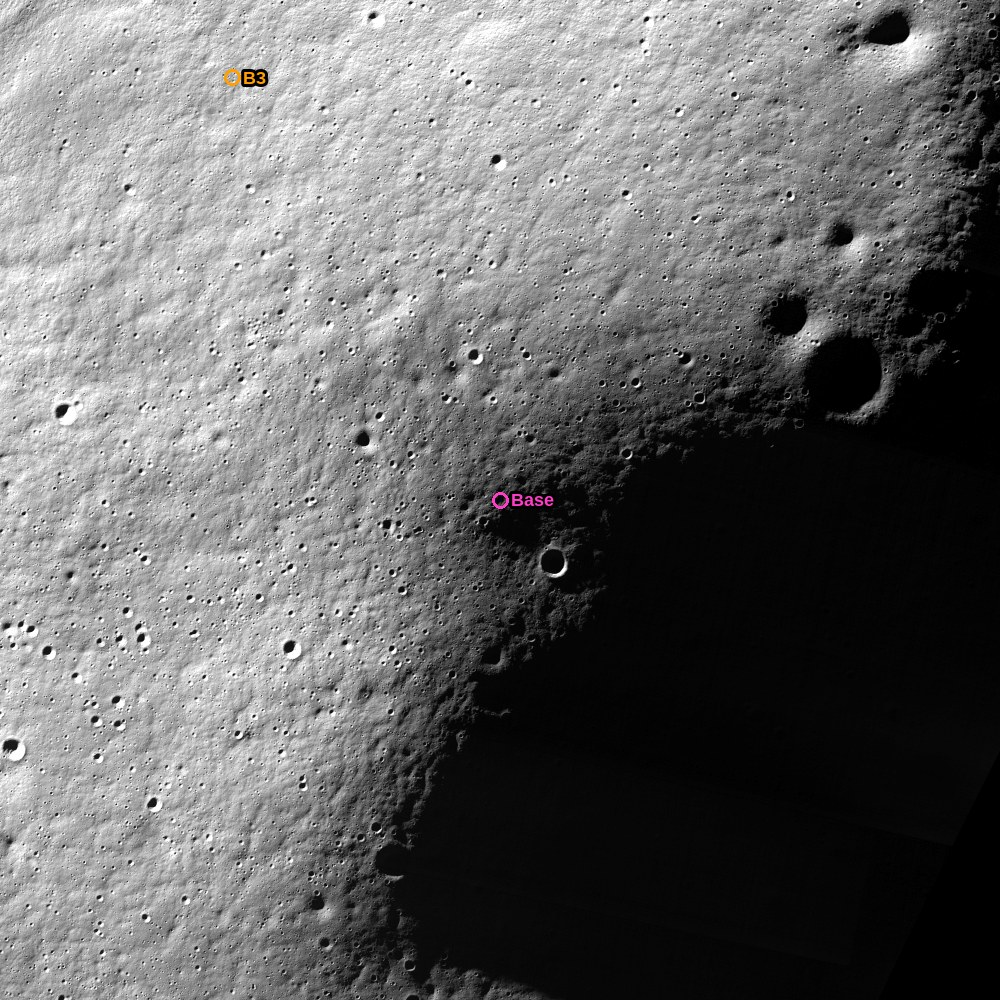
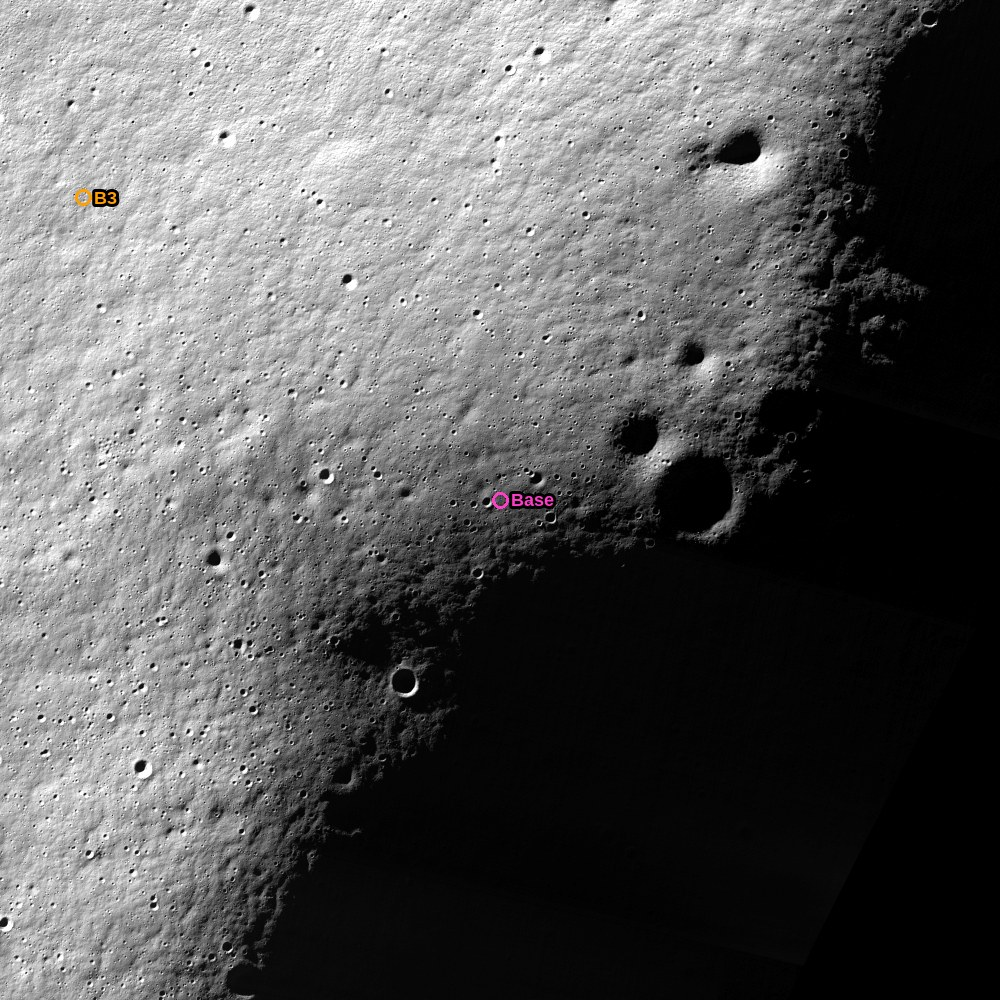
Primary base moved to the sunlit side of the flat patch, 88.4365°S 62.46°W (DD-023); maps and figures recomputed
Claude-Session: https://claude.ai/code/session_01EMgvSv8Ki6A9jj7v8eiV3S

diff --git a/analysis/blender/make_heightmap.py b/analysis/blender/make_heightmap.py
@@ -12,7 +12,7 @@ from scipy import ndimage
 from PIL import Image
 OUT = sys.argv[1]; os.makedirs(OUT, exist_ok=True)
 os.environ['CURL_CA_BUNDLE'] = os.environ.get('CURL_CA_BUNDLE', '/root/.ccr/ca-bundle.crt')
-R = 1737400.; C = lonlat2m(-88.4262, -63.30); HALF = 10000.; RES = 5.
+R = 1737400.; C = lonlat2m(-88.4365, -62.46); HALF = 10000.; RES = 5.
 B = (C[0] - HALF, C[1] - HALF, C[0] + HALF, C[1] + HALF); N = int(2 * HALF / RES)
 d10 = np.nan_to_num(read('LDEM_83S_10MPP_ADJ', B, 10)).astype('float64')
 h = np.array(Image.fromarray(d10.astype('float32'), mode='F').resize((N, N), Image.BICUBIC)).astype('float64')
@@ -56,7 +56,7 @@ with open(os.path.join(OUT, 'mesh_20m.ply'), 'wb') as f:
     f.write(('ply\nformat binary_little_endian 1.0\ncomment Open Moon primary base terrain, NASA LOLA, metres\nelement vertex %d\nproperty float x\nproperty float y\nproperty float z\nproperty float s\nproperty float t\nelement face %d\nproperty list uchar int vertex_indices\nend_header\n' % (n * n, len(faces))).encode())
     f.write(verts.tobytes()); f.write(faces.tobytes())
 bz = float(hm[N // 2, N // 2])
-info = {'centre_lat_lon': [-88.4262, -63.30], 'size_m': 2 * HALF, 'pixel_m': RES, 'pixels': N, 'bounds_polar_stereographic_m': [float(v) for v in B],
+info = {'centre_lat_lon': [-88.4365, -62.46], 'size_m': 2 * HALF, 'pixel_m': RES, 'pixels': N, 'bounds_polar_stereographic_m': [float(v) for v in B],
         'height_min_m': round(lo, 2), 'height_max_m': round(hi, 2), 'height_range_m': round(hi - lo, 2), 'base_height_m': round(bz, 2),
         'base_height_above_min_m': round(bz - lo, 2), 'share_from_5m_dem_pct': round(float(has.mean()) * 100, 1), 'site11_offset_vs_10m_m': round(off, 2),
         'curvature_drop_at_edge_mid_m': round(HALF ** 2 / (2 * R), 1), 'curvature_drop_at_corner_m': round(2 * HALF ** 2 / (2 * R), 1),

diff --git a/analysis/hydrogen/mk_primary.py b/analysis/hydrogen/mk_primary.py
@@ -9,7 +9,7 @@ from PIL import Image, ImageDraw, ImageFont
 PSR, OUT = sys.argv[1], sys.argv[2]
 font = lambda sz: ImageFont.truetype(FB, int(sz))
 frame_base = lonlat2m(-88.4453, -63.44)   # map frame stays as first drawn
-base = lonlat2m(-88.4262, -63.30); mine = lonlat2m(-88.3664, -78.31)   # primary base moved to the flat-patch centre (DD-020)
+base = lonlat2m(-88.4365, -62.46); mine = lonlat2m(-88.3664, -78.31)   # primary base on the sunlit side of the flat patch (DD-023)
 cx, cy = (frame_base[0] * 0.45 + mine[0] * 0.55), (frame_base[1] * 0.45 + mine[1] * 0.55)
 HW, HH = 17500, 13500; RES = 20
 B = (cx - HW, cy - HH, cx + HW, cy + HH)
@@ -114,7 +114,7 @@ pts = []
 for i in range(10):
     ang = math.pi / 2 + i * math.pi / 5; R_ = 22 * k if i % 2 == 0 else 10 * k; pts.append((bx + R_ * math.cos(ang), by - R_ * math.sin(ang)))
 dr.polygon(pts, fill=(255, 60, 200), outline='black')
-dr.text((bx + 26 * k, by), 'PRIMARY BASE  88.426°S, 63.30°W', font=F, fill=(255, 120, 220), anchor='lm', stroke_width=4, stroke_fill=(0, 0, 0))
+dr.text((bx + 26 * k, by), 'PRIMARY BASE  88.4365°S, 62.46°W', font=F, fill=(255, 120, 220), anchor='lm', stroke_width=4, stroke_fill=(0, 0, 0))
 # legend
 rows = [((0, 170, 0), 'Slope ≤8° (landable)'), ((255, 220, 0), 'Slope 8–15°'), ((255, 140, 0), 'Slope 15–20°'), ((220, 0, 0), 'Slope ≥20°'),
         ((40, 130, 255), 'Ice candidate: de Gerlache shadowed floor'), ((120, 200, 255), 'Outline: other shadowed areas (no ice data)'),

diff --git a/analysis/hydrogen/mk_overview.py b/analysis/hydrogen/mk_overview.py
@@ -10,7 +10,7 @@ from PIL import Image, ImageDraw, ImageFont
 PSR, OUT = sys.argv[1], sys.argv[2]
 font = lambda sz: ImageFont.truetype(FB, int(sz))
 frame_base = lonlat2m(-88.4453, -63.44)   # map frame stays as first drawn
-base = lonlat2m(-88.4262, -63.30); mine = lonlat2m(-88.3664, -78.31)   # primary base moved to the flat-patch centre (DD-020)
+base = lonlat2m(-88.4365, -62.46); mine = lonlat2m(-88.3664, -78.31)   # primary base on the sunlit side of the flat patch (DD-023)
 backup = lonlat2m(-89.559, -163.66); shack = lonlat2m(-89.67, 129.78)
 KEY = [frame_base, mine, backup, shack, lonlat2m(-88.7108, -68.28), lonlat2m(-88.5, -87.1)]
 xs_k = [p[0] for p in KEY]; ys_k = [p[1] for p in KEY]; M = 9000; RES = 40
@@ -102,7 +102,7 @@ r = 11 * k; dr.rectangle((mx - r, my - r, mx + r, my + r), fill=(40, 130, 255), 
 txt(mx, my + 18 * k, 'Ice mine', 'white', 'mt')
 star(bx, by, (255, 60, 200), 26)
 txt(bx + 28 * k, by - 6 * k, 'PRIMARY BASE', (255, 120, 220), 'lb', F)
-txt(bx + 28 * k, by + 2 * k, '88.426°S, 63.30°W', (255, 160, 230), 'lt')
+txt(bx + 28 * k, by + 2 * k, '88.4365°S, 62.46°W', (255, 160, 230), 'lt')
 # ---- backup: Connecting ridge trio on 3 km runs to a ridge PMC, extended run to the base
 AV = [('A1', -89.4745, -137.53, 81.9), ('A2', -89.3807, -140.91, 59.6), ('A3', -89.4176, -134.94, 48.3)]
 rp = P2(-89.438, -137.65); kx, ky = m2p(*backup)

diff --git a/analysis/blender/make_texture.py b/analysis/blender/make_texture.py
@@ -16,7 +16,7 @@ g = (np.clip((a - lo) / (hi - lo), 0, 1) ** 0.85 * 255).astype('uint8')
 im = Image.fromarray(g)
 if not os.environ.get('SITE_ONLY'):
     im.save(os.path.join(BO, 'texture_2m.jpg'), quality=90); im.resize((4096, 4096), Image.LANCZOS).save(os.path.join(BO, 'texture_4k.jpg'), quality=92)
-C = lonlat2m(-88.4262, -63.30); HALF = (B[2] - B[0]) / 2; F = lambda z: ImageFont.truetype(FB, int(z))
+C = lonlat2m(-88.4365, -62.46); HALF = (B[2] - B[0]) / 2; F = lambda z: ImageFont.truetype(FB, int(z))
 def markers(img, px_per_m, x0, y1, star=True):
     dr = ImageDraw.Draw(img); k = img.width / 1600
     P = [('B1', (-88.6652, -68.42), (255, 140, 0)), ('B2', (-88.7108, -68.28), (255, 140, 0)), ('B3', (-88.3693, -62.11), (255, 140, 0)),

diff --git a/analysis/hydrogen/mk_lhi.py b/analysis/hydrogen/mk_lhi.py
@@ -103,7 +103,7 @@ for la, lo in ((-88.4657, -67.87), (-88.3937, -68.69)):
     r = 9 * k; dr.ellipse((x - r, y - r, x + r, y + r), fill=ICE, outline='black', width=2)
 r = 10 * k; dr.rectangle((mine[0] - r, mine[1] - r, mine[0] + r, mine[1] + r), fill=(40, 130, 255), outline='white', width=2)
 dr.text((mine[0], mine[1] + 16 * k), 'Ice mine (floor edge)', font=Fs, fill='white', anchor='mt', stroke_width=3, stroke_fill=(0, 0, 0))
-_star(-88.4262, -63.30, (255, 60, 200), 'PRIMARY base', 'r')
+_star(-88.4365, -62.46, (255, 60, 200), 'PRIMARY base', 'r')
 _star(-89.5587, -163.66, (200, 120, 255), 'Backup base', 'r')
 # group labels for spots within ~1.5 km (37 px at 40 m/px)
 groups = []

diff --git a/analysis/blender/fetch_nac.py b/analysis/blender/fetch_nac.py
@@ -9,7 +9,7 @@ PROD, OUT = sys.argv[1], sys.argv[2]; RES = float(sys.argv[3]) if len(sys.argv) 
 U = ('/vsicurl/https://pds.mcp.nasa.gov/data/store/img/lunar_reconnaissance_orbiter/pds4/lroc/lro-l-lroc-5-rdr/'
      'LROLRC_2001/EXTRAS/BROWSE/NAC_POLE/NAC_POLE_SOUTH_{p}/NAC_POLE_SOUTH_{p}_{t}.PYR.TIF')
 TILES = ['P878S2925', 'P892S3150']
-R = 1737400.; la, lo = -88.4262, -63.30
+R = 1737400.; la, lo = -88.4365, -62.46
 rho = 2 * R * math.tan(math.radians(90 + la) / 2); CX, CY = rho * math.sin(math.radians(lo)), rho * math.cos(math.radians(lo))
 HALF = 10000.; B = (CX - HALF, CY - HALF, CX + HALF, CY + HALF)
 N = int(2 * HALF / RES); STRIP = 1000.   # metres per strip

diff --git a/analysis/sitesearch/mk_expansion.py b/analysis/sitesearch/mk_expansion.py
@@ -5,7 +5,7 @@ sys.path.insert(0, os.path.join(os.path.dirname(os.path.abspath(__file__)), '../
 from render import read, lonlat2m, FB
 from scipy import ndimage
 from PIL import Image, ImageDraw, ImageFont
-N = lonlat2m(-88.4262, -63.30); B3 = lonlat2m(-88.3693, -62.11); W = 6000; RES = 10
+N = lonlat2m(-88.4365, -62.46); B3 = lonlat2m(-88.3693, -62.11); W = 6000; RES = 10
 bb = (N[0] - W, N[1] - W, N[0] + W, N[1] + W)
 s = read('LDSM_83S_10MPP_ADJ', bb, RES); h = np.nan_to_num(read('LDEM_83S_10MPP_ADJ_HILL', bb, RES)); H, Wd = s.shape
 c = (H // 2, Wd // 2); yy, xx = np.mgrid[0:H, 0:Wd]; d = np.hypot(yy - c[0], xx - c[1]) * RES

diff --git a/analysis/imagery/render_bins.py b/analysis/imagery/render_bins.py
@@ -7,7 +7,7 @@ U = ('/vsicurl/https://pds.mcp.nasa.gov/data/store/img/lunar_reconnaissance_orbi
      'LROLRC_2001/EXTRAS/BROWSE/NAC_POLE/NAC_POLE_SOUTH_{p}/NAC_POLE_SOUTH_{p}_P878S2925.{e}')
 R = 1737400.; FB = '/usr/share/fonts/truetype/liberation/LiberationSans-Bold.ttf'
 xy = lambda la, lo: (2 * R * math.tan(math.radians(90 + la) / 2) * math.sin(math.radians(lo)), 2 * R * math.tan(math.radians(90 + la) / 2) * math.cos(math.radians(lo)))
-BASE = xy(-88.4262, -63.30); B3 = xy(-88.3693, -62.11)
+BASE = xy(-88.4365, -62.46); B3 = xy(-88.3693, -62.11)
 def rd(p, half, px):
     cx, cy = BASE
     for e in ('PYR.TIF', 'TIF'):

diff --git a/analysis/blender/base_anim.py b/analysis/blender/base_anim.py
@@ -9,7 +9,7 @@ from scipy import ndimage
 from PIL import Image, ImageDraw, ImageFont
 SEASON, OUT = sys.argv[1], sys.argv[2]
 R = 1737400.
-C = np.array(lonlat2m(-88.4262, -63.30)); HALF = 10000.; G = 40.
+C = np.array(lonlat2m(-88.4365, -62.46)); HALF = 10000.; G = 40.
 d80 = np.load('dem80.npy'); B80 = (-216400., -216400., 216400., 216400.)
 d20 = np.load('dem20.npy'); B20 = tuple(np.load('dem20_bounds.npy'))
 NB = (C[0] - 15000, C[1] - 15000, C[0] + 15000, C[1] + 15000)

diff --git a/analysis/imagery/mk_nac_lighting.py b/analysis/imagery/mk_nac_lighting.py
@@ -11,7 +11,7 @@ FB = '/usr/share/fonts/truetype/liberation/LiberationSans-Bold.ttf'; F = lambda 
 R = 1737400.
 def xy(lat, lon):
     rho = 2 * R * math.tan(math.radians(90 + lat) / 2); L = math.radians(lon); return rho * math.sin(L), rho * math.cos(L)
-BASE = xy(-88.4262, -63.30); B3 = xy(-88.3693, -62.11)   # DD-020, DD-021
+BASE = xy(-88.4365, -62.46); B3 = xy(-88.3693, -62.11)   # DD-023, DD-021
 def _read(prod, half, px):
     cx, cy = BASE
     for k in range(5):

diff --git a/_milestones/m00-site-selection.md b/_milestones/m00-site-selection.md
@@ -59,8 +59,8 @@ risks:
 
 *Both base sites with their final power layouts. Slope in four classes, ice-candidate crater floors in blue, hydrogen in purple. Sunlit percentages are from NASA's illumination map. Click any image to see it full size.*
 
-- **Primary:** de Gerlache north rim, 88.426°S, 63.30°W, at the centre of a 4.8 km² patch of flat ground (DD-020).
-- **Backup:** Connecting ridge by Shackleton, 89.559°S, 163.66°W, 51.8 km away.
+- **Primary:** de Gerlache north rim, 88.4365°S, 62.46°W, on the sunlit north-east side of a 4.8 km² patch of flat ground (DD-023).
+- **Backup:** Connecting ridge by Shackleton, 89.559°S, 163.66°W, 51.7 km away.
 
 Both are chosen from orbital data and are to be confirmed on the ground by the M01 prospectors (DD-015).
 
@@ -162,7 +162,7 @@ NASA's VSAT towers give 10 kW each on 5–10 m masts and stand on slopes up to 1
 | Backup: ridge, 3 towers | 93.0% | 4.8 days |
 | Primary: rim, 2 towers | 84.1% | 6.2 days |
 
-The ridge towers sit on ~2 km cables. The primary's towers need 8.2–9.4 km cables.
+The ridge towers sit on ~2 km cables. The primary's towers need 8.3–9.4 km cables.
 
 </div>
 <div class="tp-media" markdown="1">
@@ -184,7 +184,7 @@ Orbiters map hydrogen in the top metre by counting escaping neutrons. A neutron 
 
 NASA's LEND team found the enhancements "near and in areas of permanent shadow"<sup class="r">[12](#s12)</sup>. Open Moon mapped the dip from NASA's LEND data<sup class="r">[13](#s13)</sup>.
 
-The strongest hydrogen in the focus area lies away from the craters: **20.2 km** from the primary and **28.9 km** from the backup.
+The strongest hydrogen in the focus area lies away from the craters: **19.5 km** from the primary and **28.9 km** from the backup.
 
 </div>
 <div class="tp-media" markdown="1">
@@ -225,14 +225,14 @@ Top: ice candidates in the focus area. Bottom: surface ice found by NASA's M3, s
 
 ### Power layout at the primary
 
-The ice floor is 12.7 km from the base, beyond the 10 km cable limit, so the base and the mine have **separate grids** (DD-016; ESTIMATE):
+The ice floor is 13.4 km from the base, beyond the 10 km cable limit, so the base and the mine have **separate grids** (DD-016; ESTIMATE):
 
 | Grid | Lit | Longest dark |
 |---|---|---|
 | Base: B1, B2 (+B3) | 84.1% (84.2% with B3) | 6.2 days |
 | Mine: M1, M2 | 77.4% | 14.2 days |
 
-- **B3**, 2.0 km from the base and clear of the flat patch, adds redundancy and faster charging (DD-017, DD-021).
+- **B3**, 2.1 km from the base and clear of the flat patch, adds redundancy and faster charging (DD-017, DD-021).
 - **The mine stops in the dark.** Its battery only keeps systems alive.
 - **Towers within 3 km were rejected.** They reach only 56.9%.
 
@@ -257,12 +257,12 @@ window.addEventListener('hashchange',open);open();})();
 
 | | **Primary: de Gerlache north rim** | **Backup: Connecting ridge** |
 |---|---|---|
-| Position | 88.426°S, 63.30°W | 89.559°S, 163.66°W |
-| Slope at site; landable within 1 km | 2.1°; 60% | 6.1°; 69% |
+| Position | 88.4365°S, 62.46°W | 89.559°S, 163.66°W |
+| Slope at site; landable within 1 km | 2.2°; 58% | 6.1°; 69% |
 | Connected flat ground (≤8°); widest flat circle | 4.8 km²; 540 m | 9.7 km²; 450 m |
 | Solar towers (ESTIMATE) | 84.1% lit, longest dark 6.2 days | 93.0% lit, longest dark 4.8 days |
-| Nearest ice-candidate floor | 12.7 km (de Gerlache) | 5.2 km (Shackleton) |
-| Nearest high hydrogen | 20.2 km | 28.9 km |
+| Nearest ice-candidate floor | 13.4 km (de Gerlache) | 5.2 km (Shackleton) |
+| Nearest high hydrogen | 19.5 km | 28.9 km |
 | On NASA's 2024 list | Yes (de Gerlache Rim 2) | No (2022 list only) |
 
 *Distances are straight lines.*
@@ -272,13 +272,14 @@ window.addEventListener('hashchange',open);open();})();
 **Pros**
 
 - Inside NASA's de Gerlache Rim 2, a region NASA screened for landing safety, light and Earth visibility<sup class="r">[3](#s3)</sup>.
-- Room to grow: the base is at the centre of 4.8 km² of connected ground at 8° or less, with a fully flat circle 540 m across. B3 stands 2.0 km away, off the patch, so the whole patch stays free (DD-021).
+- Room to grow: the base sits on the sunlit side of 4.8 km² of connected ground at 8° or less, with a fully flat circle 300 m across at the base itself. B3 stands 2.1 km away, off the patch, so the whole patch stays free (DD-021).
+- Sunnier base point: sunlit 45% of the time, against 35% at the patch centre (Open Moon model; NASA's average map gives 44.8%), with just under half the days in a typical month mostly in sun (DD-023; ESTIMATE).
 - The most hydrogen of the two sites, and an ice target with two independent hints.
 
 **Cons**
 
-- Less sun: 84.1% with blackouts of up to 6.2 days, and the base towers need 8.2–9.4 km cables.
-- The ice floor is 12.7 km away, so the mine needs its own grid and stops for up to about 14 days at a time.
+- Less sun: 84.1% with blackouts of up to 6.2 days, and the base towers need 8.3–9.4 km cables.
+- The ice floor is 13.4 km away, so the mine needs its own grid and stops for up to about 14 days at a time.
 - The cables to the mine cross a crater wall that is mostly steeper than 20°.
 - A young fault scarp is mapped in Rim 2<sup class="r">[7](#s7)</sup>.
 
@@ -330,12 +331,12 @@ Flat ground (8° or less) around the base, measured by Open Moon from NASA's LOL
 |---|---|
 | Connected patch the base sits in | **4.8 km²** |
 | All flat ground within 2 km | 3.8 km² |
-| All flat ground within 3 km | 5.4 km² |
-| All flat ground within 5 km | 10.1 km² |
-| Within 5 km, in patches of at least 0.05 km² that can be reached over ground of 15° or less | 6.4 km² |
+| All flat ground within 3 km | 5.3 km² |
+| All flat ground within 5 km | 11.0 km² |
+| Within 5 km, in patches of at least 0.05 km² that can be reached over ground of 15° or less | 7.1 km² |
 
-**For scale** (this plan's arithmetic): the 4.8 km² patch is about the size of **Pitcairn Island** (4.5 km²)<sup class="r">[24](#s24)</sup>, about **2.4 times Monaco** (2.02 km²) and about **10 times Vatican City** (0.49 km²)<sup class="r">[25](#s25)</sup>. The 10.1 km² within 5 km is about 2 Pitcairns, 5 Monacos or 20 Vatican Cities.
+**For scale** (this plan's arithmetic): the 4.8 km² patch is about the size of **Pitcairn Island** (4.5 km²)<sup class="r">[24](#s24)</sup>, about **2.4 times Monaco** (2.02 km²) and about **10 times Vatican City** (0.49 km²)<sup class="r">[25](#s25)</sup>. The 11.0 km² within 5 km is about 2.4 Pitcairns, 5.4 Monacos or 22 Vatican Cities.
 
-The base can grow over its own 4.8 km² patch without crossing steeper ground. Beyond it, about 6–10 km² more lies within 5 km, in separate patches linked by drivable slopes. B3 stands off the patch, so none of it is lost to a pad keep-out (DD-021).
+The base can grow over its own 4.8 km² patch without crossing steeper ground. Within 5 km there is 7–11 km² of flat ground in all, in separate patches linked by drivable slopes. B3 stands off the patch, so none of it is lost to a pad keep-out (DD-021).
 
 ![Flat ground around the primary base: the connected 4.8 km² patch and other ground at 8° or less within 2, 3 and 5 km]({{ '/assets/sites/primary-expansion.jpg' | relative_url }})

diff --git a/_components/c06-2-ice-mining.md b/_components/c06-2-ice-mining.md
@@ -86,7 +86,7 @@ This plan follows the architecture of a NASA case study. Excavators work in the 
 
 **Power at the mine (design changes DD-013 and DD-014).** The base's standard power run is 3 km of cable (DD-013). Extended runs of up to 10 km are allowed at about 10–15% loss (DD-014). In the NASA study the mine is about 5 km from the ridge<sup class="r">[1](#s1)</sup>, and NASA expects ISRU to need power over 3–5 km<sup class="r">[6](#s6)</sup>. So the ~15 kW at such a mine can come from the grid over an extended run, with voltage regulation at the mine end and a 1 kHz stability analysis for the run (plan design). At ~10–15% loss, that is about 1.5–2.3 kW more at the source (this plan's arithmetic). A mine more than 10 km of cable from the PMC runs on the mobile power cart (PBS PW.5) or a local source, and tankers carry the water to the plant (plan design; open).
 
-**Primary base site (DD-015).** At the primary site on de Gerlache's north rim, the mine is planned at the edge of de Gerlache's shadowed floor around 88.37°S, 78.3°W, 12.7–13 km from the base. It is powered by its own isolated grid (DD-016): two rim VSATs 2.3 km apart feeding a mine PMC on the rim, and an ~8.3 km feeder down to the mine (M00, "Power layout" tab). It is not connected to the base grid (plan design; ESTIMATE for sunlight). When both mine VSATs are dark (up to about 14 days at a time, ESTIMATE), the mine shuts down; its battery only keeps heaters, controls and comms alive, not the ~15 kW mining load (plan design).
+**Primary base site (DD-015).** At the primary site on de Gerlache's north rim, the mine is planned at the edge of de Gerlache's shadowed floor around 88.37°S, 78.3°W, about 13.5 km from the base (DD-023). It is powered by its own isolated grid (DD-016): two rim VSATs 2.3 km apart feeding a mine PMC on the rim, and an ~8.3 km feeder down to the mine (M00, "Power layout" tab). It is not connected to the base grid (plan design; ESTIMATE for sunlight). When both mine VSATs are dark (up to about 14 days at a time, ESTIMATE), the mine shuts down; its battery only keeps heaters, controls and comms alive, not the ~15 kW mining load (plan design).
 
 ## Sizing
 
